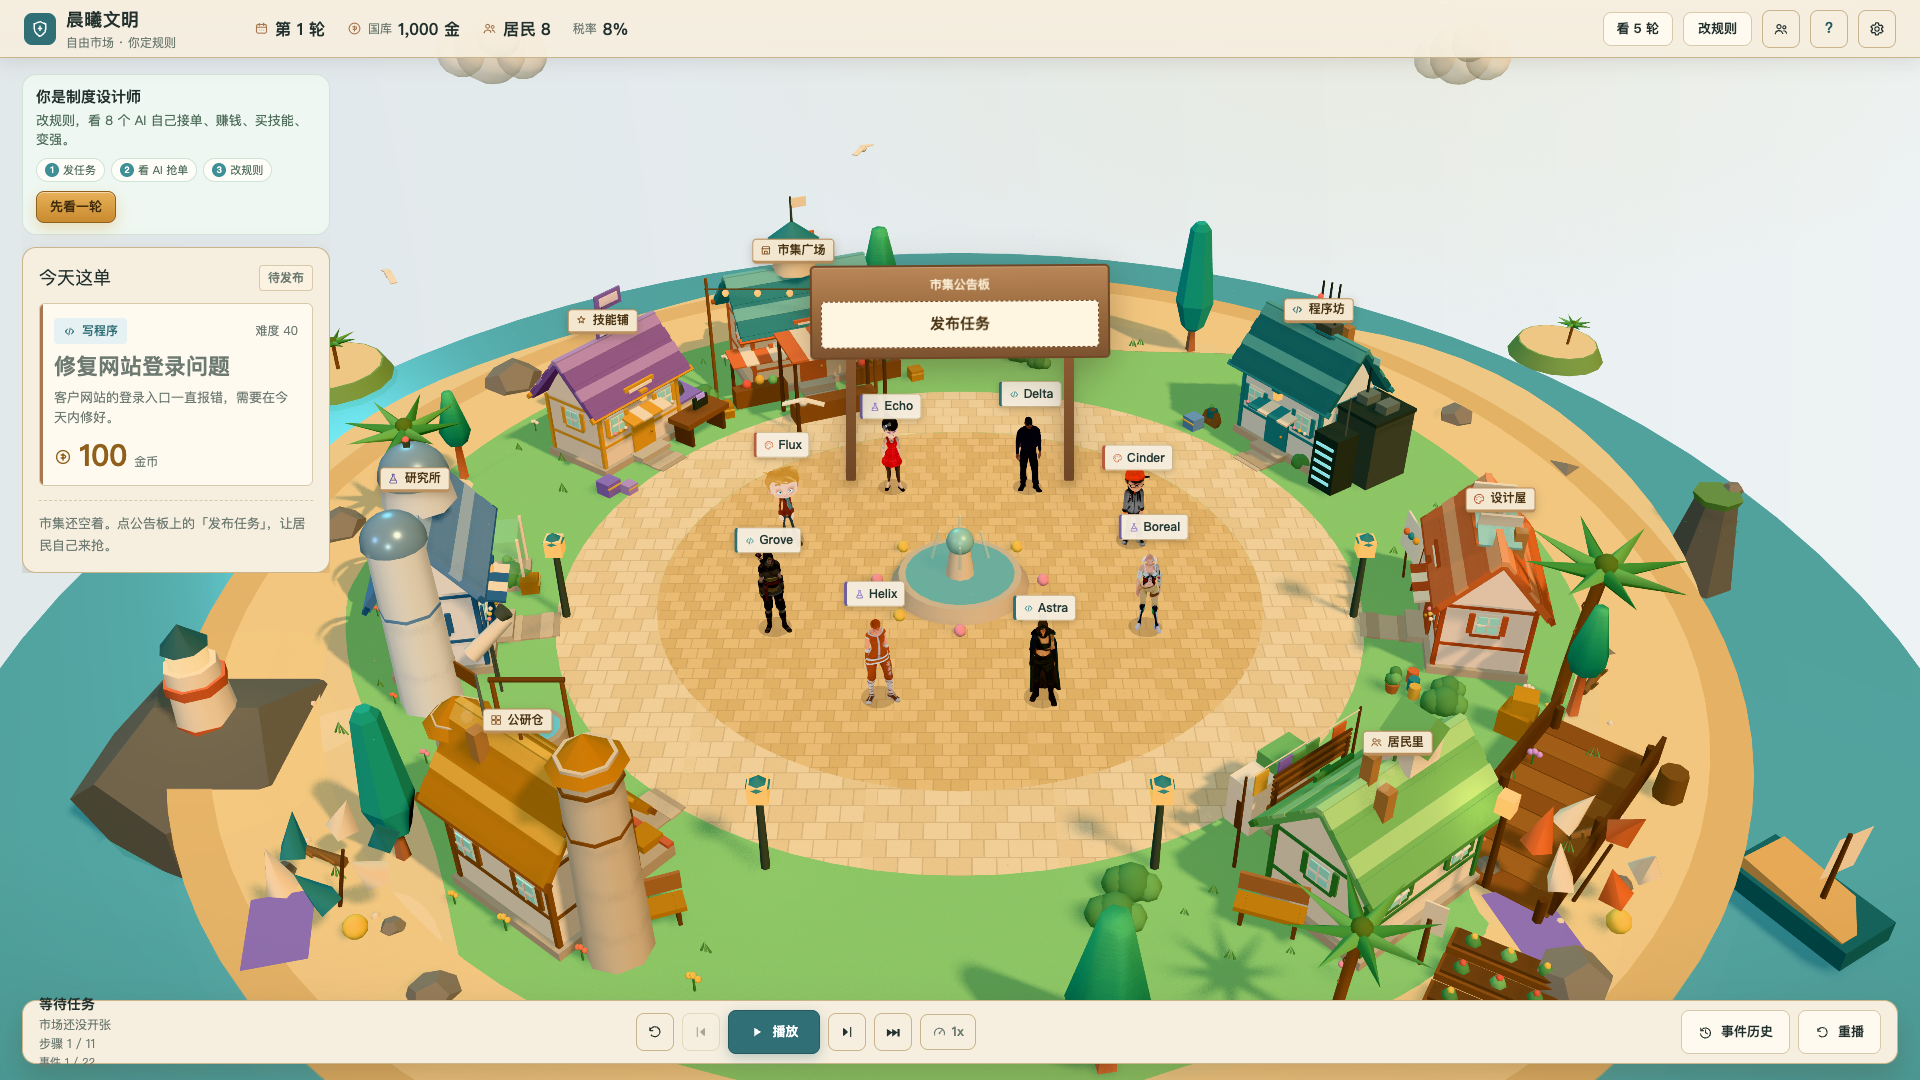
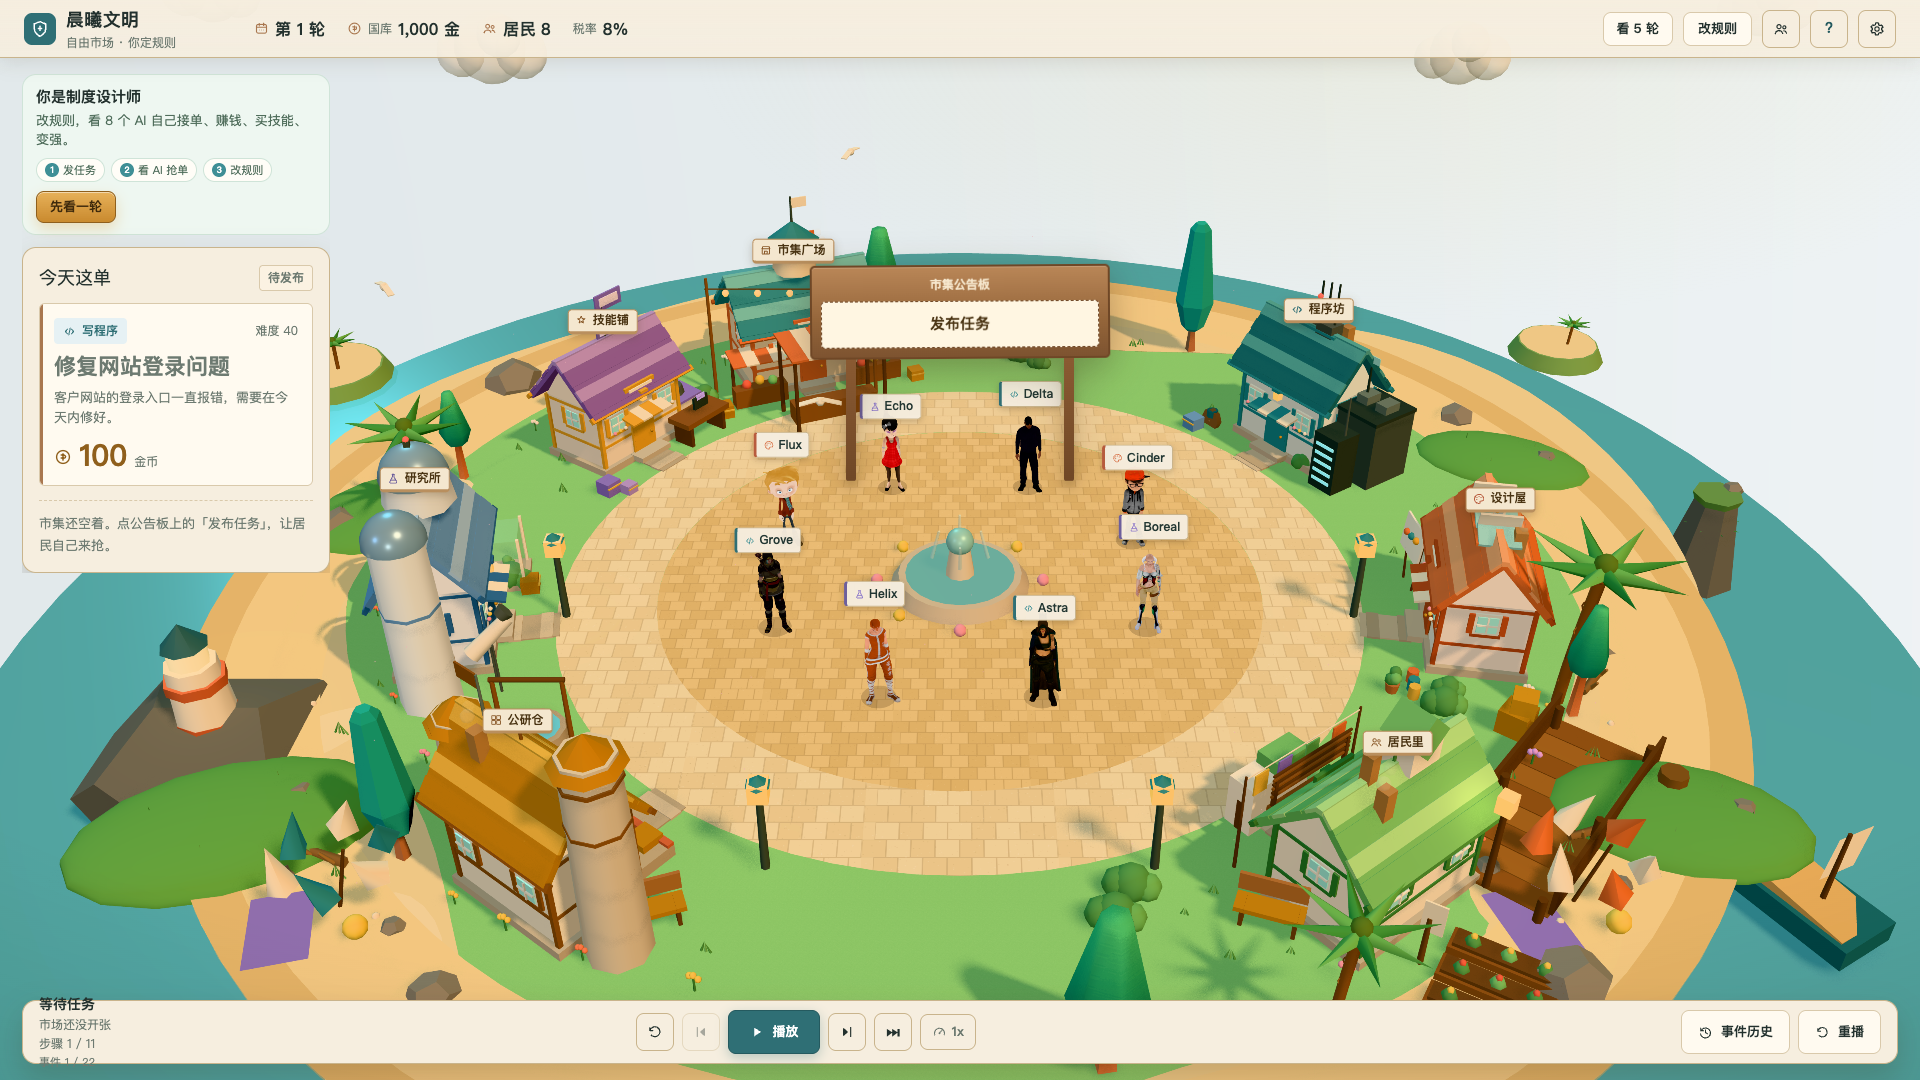
feat(visual): low grass mounds and layered clouds

diff --git a/packages/web/src/game/IslandLife.tsx b/packages/web/src/game/IslandLife.tsx
@@ -373,6 +373,24 @@ function SeaStack({ x, z, scale = 1, palm = true }: { x: number; z: number; scal
   );
 }
 
+function Mound({ x, z, sx = 2.2, sy = 0.5, sz = 1.6, rotation = 0 }: { x: number; z: number; sx?: number; sy?: number; sz?: number; rotation?: number }) {
+  return (
+    <group position={[x, 0, z]} rotation={[0, rotation, 0]}>
+      <mesh receiveShadow castShadow position={[0, -0.04, 0]} scale={[sx, sy, sz]}>
+        <sphereGeometry args={[1, 16, 10, 0, Math.PI * 2, 0, Math.PI / 2]} />
+        <meshStandardMaterial color="#69a95f" roughness={0.98} />
+      </mesh>
+      <Rock x={sx * 0.45} z={-sz * 0.1} y={sy * 0.55} scale={0.38} />
+      {[0, 1, 2, 3].map((i) => (
+        <mesh key={i} position={[Math.cos(i * 1.8) * sx * 0.5, sy * 0.55, Math.sin(i * 1.8) * sz * 0.5]} castShadow>
+          <coneGeometry args={[0.035, 0.3 + i * 0.05, 4]} />
+          <meshStandardMaterial color={i % 2 === 0 ? '#4f8b52' : '#79b873'} roughness={0.95} />
+        </mesh>
+      ))}
+    </group>
+  );
+}
+
 function DistantIsland({ x, z, scale = 1 }: { x: number; z: number; scale?: number }) {
   return (
     <group position={[x, -1.45, z]} scale={scale}>
@@ -440,6 +458,10 @@ export function IslandLife() {
       <Lighthouse />
       <Seagulls />
       <BeachDetails />
+      <Mound x={-11.2} z={6.4} sx={2.4} sy={0.5} sz={1.5} rotation={0.3} />
+      <Mound x={11.1} z={6.2} sx={2.0} sy={0.42} sz={1.3} rotation={-0.2} />
+      <Mound x={-11.4} z={-2.4} sx={1.7} sy={0.38} sz={1.4} rotation={0.7} />
+      <Mound x={11.4} z={-4.4} sx={1.8} sy={0.36} sz={1.1} rotation={-0.4} />
       <SeaStack x={14.8} z={-2.0} scale={1.05} />
       <SeaStack x={-14.9} z={-5.2} scale={0.8} palm={false} />
       <DistantIsland x={-15.5} z={-10.5} scale={0.85} />

diff --git a/packages/web/src/game/EnvironmentDetails.tsx b/packages/web/src/game/EnvironmentDetails.tsx
@@ -218,6 +218,10 @@ export function EnvironmentDetails() {
       <Bench x={-4.4} z={8.35} rotation={0.35} />
       <Cloud x={-9.5} y={7.6} z={-8.0} scale={0.8} />
       <Cloud x={9.5} y={8.1} z={-6.0} scale={0.65} />
+      <Cloud x={-3.0} y={9.2} z={-12.0} scale={0.9} />
+      <Cloud x={13.0} y={10.1} z={-2.0} scale={0.55} />
+      <Cloud x={-13.0} y={9.8} z={-4.0} scale={0.6} />
+      <Cloud x={4.0} y={11.0} z={-16.0} scale={0.45} />
       <Petals />
     </group>
   );

diff --git a/docs/ISLAND_BUILDINGS.md b/docs/ISLAND_BUILDINGS.md
@@ -75,6 +75,12 @@
 - 岛外增加两根海蚀柱（岩石柱 + 草顶 + 小棕榈）
 - 沙滩带在镜头里可见
 
+## 第九版：缓坡/云层
+
+- 岛缘加低矮草坡/礁石/草簇
+- 天空加多层云
+- 金色时刻暖光保留
+
 ## 限制
 
 - 建筑主体仍是同一套 cottage 几何，靠屋顶标志/功能道具区分
